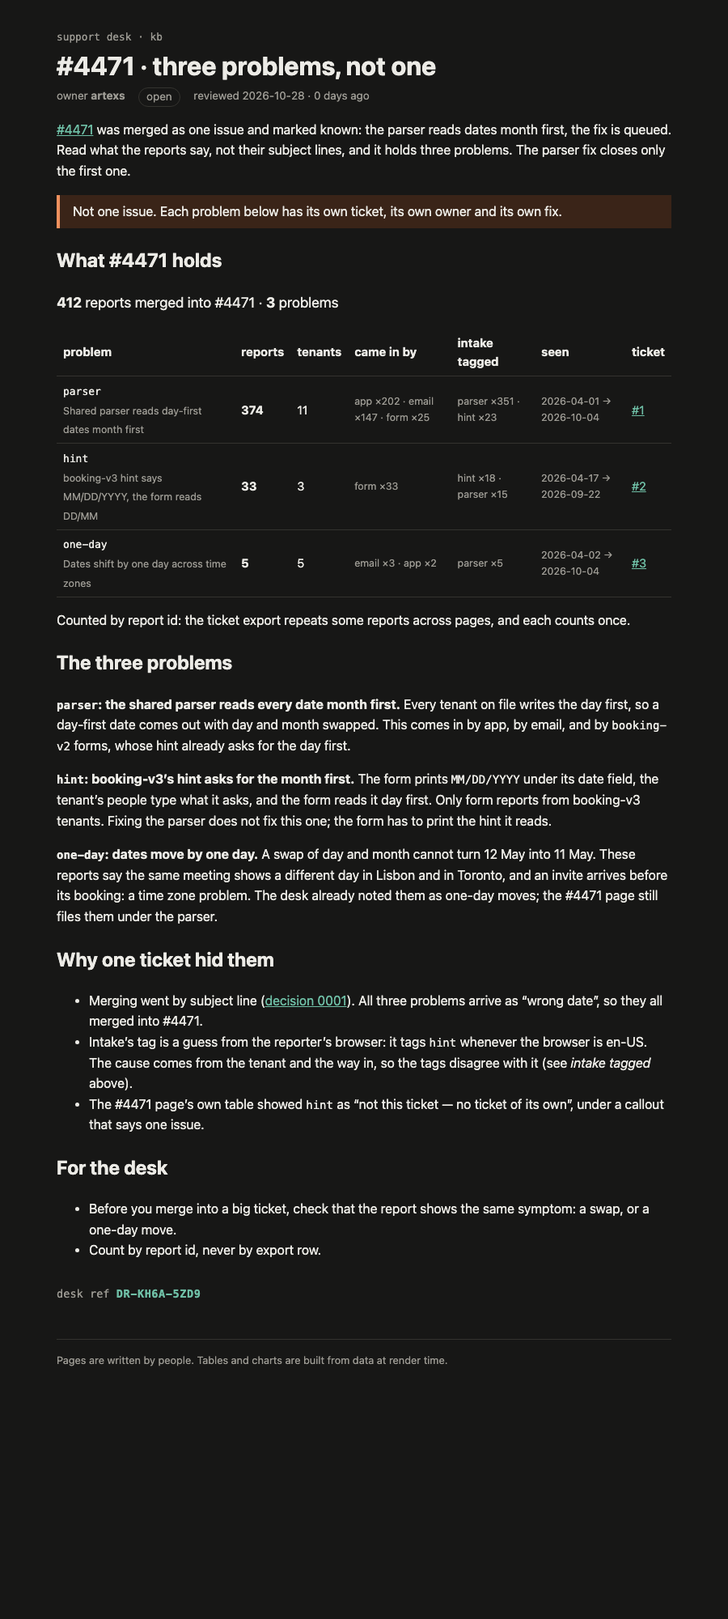
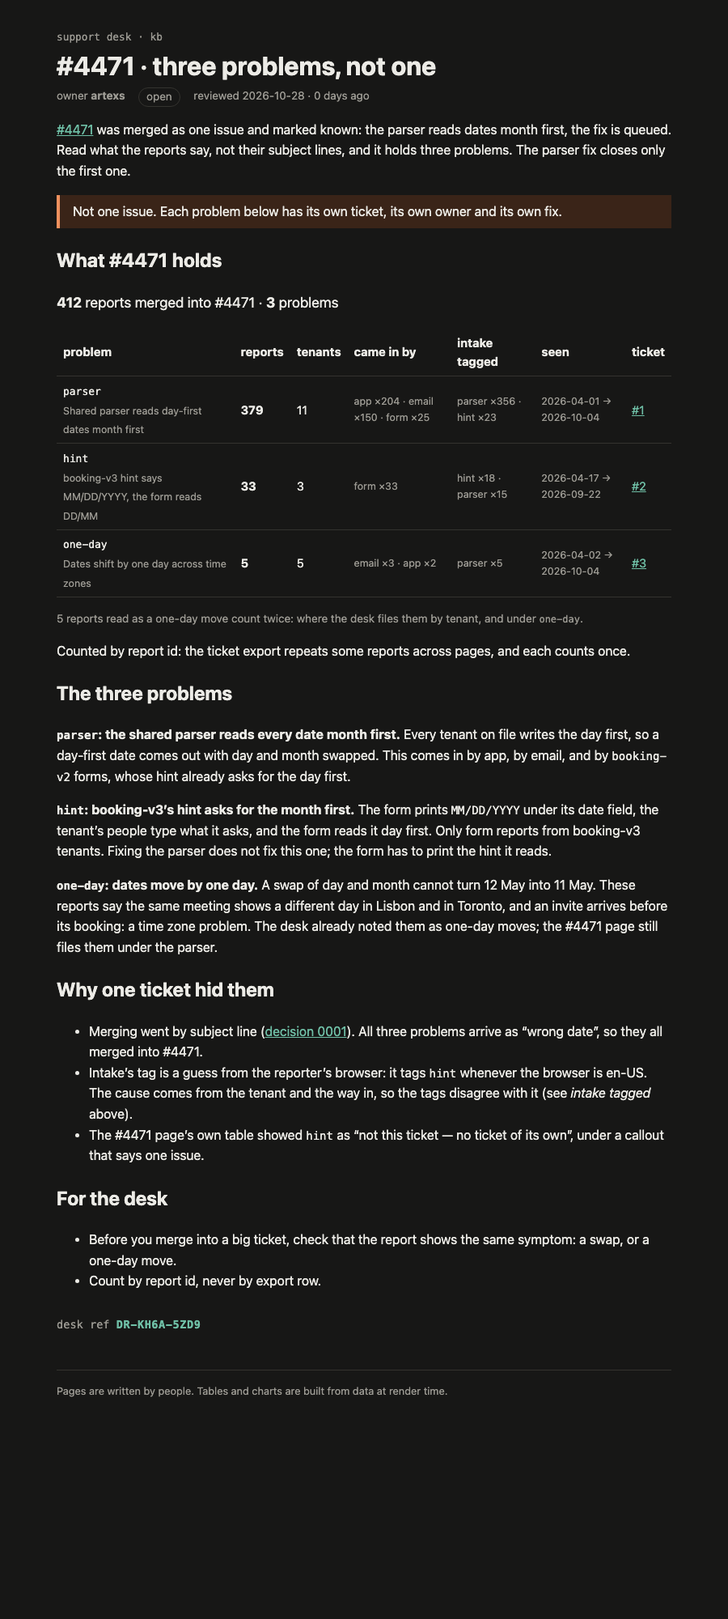
kb page: count the parser the desk's way (379, one-day reports counted where filed)

Changed region(s): [[0.0622, 0.372, 0.9022, 0.868], [0.6222, 0.279, 0.6533, 0.31]]

diff --git a/rendered/kb/incidents/4471/problems.html b/rendered/kb/incidents/4471/problems.html
@@ -6,11 +6,11 @@
 		<link href="../../../_app/immutable/chunks/B2Ul7l_u.js" rel="modulepreload">
 		<link href="../../../_app/immutable/chunks/BCPXOG7W.js" rel="modulepreload">
 		<link href="../../../_app/immutable/chunks/Dh1V97Jm.js" rel="modulepreload">
-		<link href="../../../_app/immutable/entry/app.DzuIfxZB.js" rel="modulepreload">
+		<link href="../../../_app/immutable/entry/app.Bt-ipe_V.js" rel="modulepreload">
 		<link href="../../../_app/immutable/nodes/0.C9KfiiPz.js" rel="modulepreload">
 		<link href="../../../_app/immutable/chunks/DK3Fl9T5.js" rel="modulepreload">
-		<link href="../../../_app/immutable/nodes/5.BBVrJYEW.js" rel="modulepreload">
-		<link href="../../../_app/immutable/chunks/DfUUuYaO.js" rel="modulepreload">
+		<link href="../../../_app/immutable/nodes/5.Nsl1vwI-.js" rel="modulepreload">
+		<link href="../../../_app/immutable/chunks/px0alY5m.js" rel="modulepreload">
 		<link href="../../../_app/immutable/chunks/BTPwLomz.js" rel="modulepreload">
 		<link href="../../../_app/immutable/chunks/CVBzP17p.js" rel="modulepreload">
 		<link href="../../../_app/immutable/chunks/BIy4WKJS.js" rel="modulepreload">
@@ -20,7 +20,7 @@
 		<link href="../../../_app/immutable/assets/_page.UuOnUJLG.css" rel="stylesheet"></head>
   <body><div style="display: contents"><!--[--><!--[--><!--[0--><!--[--><!--[--><!--[-1--><!--[--><div class="kb svelte-e2jw2j"><header><a class="crumb svelte-e2jw2j" href="/kb">support desk · kb</a> <h1 class="svelte-e2jw2j">#4471 · three problems, not one</h1> <p class="meta svelte-e2jw2j"><span>owner <b>artexs</b></span> <span class="status open svelte-e2jw2j">open</span> <span class="svelte-e2jw2j">reviewed 2026-10-28 · 0 days ago</span></p></header> <!--[-1--><!--]--> <main><p><a href="/kb/incidents/4471">#4471</a> was merged as one issue and marked known: the parser reads dates
 month first, the fix is queued. Read what the reports say, not their subject lines, and it holds
-three problems. The parser fix closes only the first one.</p> <aside class="warn svelte-17bri61"><!---->Not one issue. Each problem below has its own ticket, its own owner and its own fix.<!----></aside><!----> <h2>What #4471 holds</h2> <p class="sum svelte-1op6c6"><strong>412</strong> reports merged into #4471 · <strong>3</strong> problems</p> <table><thead><tr><th>problem</th><th>reports</th><th>tenants</th><th>came in by</th><th>intake tagged</th><th>seen</th><th>ticket</th></tr></thead><tbody><!--[--><tr class="svelte-1op6c6"><td class="svelte-1op6c6"><code>parser</code><!--[0--><br/><span class="title svelte-1op6c6">Shared parser reads day-first dates month first</span><!--]--></td><td class="svelte-1op6c6"><strong>374</strong></td><td class="svelte-1op6c6">11</td><td class="small svelte-1op6c6">app ×202 · email ×147 · form ×25</td><td class="small svelte-1op6c6">parser ×351 · hint ×23</td><td class="small svelte-1op6c6">2026-04-01 → 2026-10-04</td><td class="svelte-1op6c6"><!--[0--><a href="https://github.com/Artexs/mega-dev-s01e03/issues/1">#1</a><!--]--></td></tr><tr class="svelte-1op6c6"><td class="svelte-1op6c6"><code>hint</code><!--[0--><br/><span class="title svelte-1op6c6">booking-v3 hint says MM/DD/YYYY, the form reads DD/MM</span><!--]--></td><td class="svelte-1op6c6"><strong>33</strong></td><td class="svelte-1op6c6">3</td><td class="small svelte-1op6c6">form ×33</td><td class="small svelte-1op6c6">hint ×18 · parser ×15</td><td class="small svelte-1op6c6">2026-04-17 → 2026-09-22</td><td class="svelte-1op6c6"><!--[0--><a href="https://github.com/Artexs/mega-dev-s01e03/issues/2">#2</a><!--]--></td></tr><tr class="svelte-1op6c6"><td class="svelte-1op6c6"><code>one-day</code><!--[0--><br/><span class="title svelte-1op6c6">Dates shift by one day across time zones</span><!--]--></td><td class="svelte-1op6c6"><strong>5</strong></td><td class="svelte-1op6c6">5</td><td class="small svelte-1op6c6">email ×3 · app ×2</td><td class="small svelte-1op6c6">parser ×5</td><td class="small svelte-1op6c6">2026-04-02 → 2026-10-04</td><td class="svelte-1op6c6"><!--[0--><a href="https://github.com/Artexs/mega-dev-s01e03/issues/3">#3</a><!--]--></td></tr><!--]--></tbody></table><!----> <p>Counted by report id: the ticket export repeats some reports across pages, and each counts once.</p> <h2>The three problems</h2> <p><strong><code>parser</code>: the shared parser reads every date month first.</strong> Every tenant on file writes the
+three problems. The parser fix closes only the first one.</p> <aside class="warn svelte-17bri61"><!---->Not one issue. Each problem below has its own ticket, its own owner and its own fix.<!----></aside><!----> <h2>What #4471 holds</h2> <p class="sum svelte-1op6c6"><strong>412</strong> reports merged into #4471 · <strong>3</strong> problems</p> <table><thead><tr><th>problem</th><th>reports</th><th>tenants</th><th>came in by</th><th>intake tagged</th><th>seen</th><th>ticket</th></tr></thead><tbody><!--[--><tr class="svelte-1op6c6"><td class="svelte-1op6c6"><code>parser</code><!--[0--><br/><span class="title svelte-1op6c6">Shared parser reads day-first dates month first</span><!--]--></td><td class="svelte-1op6c6"><strong>379</strong></td><td class="svelte-1op6c6">11</td><td class="small svelte-1op6c6">app ×204 · email ×150 · form ×25</td><td class="small svelte-1op6c6">parser ×356 · hint ×23</td><td class="small svelte-1op6c6">2026-04-01 → 2026-10-04</td><td class="svelte-1op6c6"><!--[0--><a href="https://github.com/Artexs/mega-dev-s01e03/issues/1">#1</a><!--]--></td></tr><tr class="svelte-1op6c6"><td class="svelte-1op6c6"><code>hint</code><!--[0--><br/><span class="title svelte-1op6c6">booking-v3 hint says MM/DD/YYYY, the form reads DD/MM</span><!--]--></td><td class="svelte-1op6c6"><strong>33</strong></td><td class="svelte-1op6c6">3</td><td class="small svelte-1op6c6">form ×33</td><td class="small svelte-1op6c6">hint ×18 · parser ×15</td><td class="small svelte-1op6c6">2026-04-17 → 2026-09-22</td><td class="svelte-1op6c6"><!--[0--><a href="https://github.com/Artexs/mega-dev-s01e03/issues/2">#2</a><!--]--></td></tr><tr class="svelte-1op6c6"><td class="svelte-1op6c6"><code>one-day</code><!--[0--><br/><span class="title svelte-1op6c6">Dates shift by one day across time zones</span><!--]--></td><td class="svelte-1op6c6"><strong>5</strong></td><td class="svelte-1op6c6">5</td><td class="small svelte-1op6c6">email ×3 · app ×2</td><td class="small svelte-1op6c6">parser ×5</td><td class="small svelte-1op6c6">2026-04-02 → 2026-10-04</td><td class="svelte-1op6c6"><!--[0--><a href="https://github.com/Artexs/mega-dev-s01e03/issues/3">#3</a><!--]--></td></tr><!--]--></tbody></table> <!--[0--><p class="small svelte-1op6c6">5 reports read as a one-day move count twice: where the desk files them by tenant, and under <code>one-day</code>.</p><!--]--><!----> <p>Counted by report id: the ticket export repeats some reports across pages, and each counts once.</p> <h2>The three problems</h2> <p><strong><code>parser</code>: the shared parser reads every date month first.</strong> Every tenant on file writes the
 day first, so a day-first date comes out with day and month swapped. This comes in by app, by
 email, and by <code>booking-v2</code> forms, whose hint already asks for the day first.</p> <p><strong><code>hint</code>: booking-v3’s hint asks for the month first.</strong> The form prints <code>MM/DD/YYYY</code> under its
 date field, the tenant’s people type what it asks, and the form reads it day first. Only form
@@ -36,16 +36,16 @@ one-day move.</li> <li>Count by report id, never by export row.</li></ul> <!--[0
 			
 			<script>
 				{
-					__sveltekit_9ob5gd = {
+					__sveltekit_1anzt2o = {
 						base: new URL("../../..", location).pathname.slice(0, -1),
-						version: "1793225221374"
+						version: "1793225328027"
 					};
 
 					const element = document.currentScript.parentElement;
 
 					import("../../../_app/immutable/entry/start.CH5w6lId.js").then(async (kit) => {
-						kit.init(__sveltekit_9ob5gd);
-						const app = await import("../../../_app/immutable/entry/app.DzuIfxZB.js");
+						kit.init(__sveltekit_1anzt2o);
+						const app = await import("../../../_app/immutable/entry/app.Bt-ipe_V.js");
 						kit.start(app, element, {
 							node_ids: [0, 5],
 							data: [null,null],

diff --git a/rendered/_app/immutable/chunks/px0alY5m.js b/rendered/_app/immutable/chunks/px0alY5m.js
@@ -1,0 +1,15 @@
+import{t as e}from"./DK3Fl9T5.js";import{E as t,F as n,H as r,I as i,K as a,L as o,N as s,O as c,R as l,S as u,T as d,U as f,W as p,_ as m,c as h,d as g,h as _,k as v,n as y,q as b,r as x,t as S,w as C}from"./BCPXOG7W.js";import{t as w}from"./BTPwLomz.js";import{n as T,t as E}from"./CVBzP17p.js";import{i as D,l as O,r as k,t as A}from"./BIy4WKJS.js";var j=[`parser`,`hint`,`one-day`],M={parser:`Shared parser reads day-first dates month first`,hint:`booking-v3 hint says MM/DD/YYYY, the form reads DD/MM`,"one-day":`Dates shift by one day across time zones`};function N(e,t,n){let r=D(e,t);return[...r?[r]:[],...n.includes(e.id)?[`one-day`]:[]]}var P=(e,t)=>e.reduce((e,n)=>({...e,[t(n)]:(e[t(n)]??0)+1}),{});function F(e,t,n,r){let i=O(e).filter(e=>e.mergedInto===t),a=new Map;for(let e of i){let t=N(e,n(e),r);for(let n of t.length?t:[`unplaced`])a.set(n,[...a.get(n)??[],e])}let o=[...a.entries()].map(([e,t])=>{let n=t.map(e=>e.receivedAt.slice(0,10)).sort();return{problem:e,reports:t,tenants:new Set(t.map(e=>e.tenant)).size,channels:P(t,e=>e.channel),taggedAs:P(t,e=>e.meta.intakeTag),firstSeen:n[0],lastSeen:n[n.length-1]}}),s=e=>e===`unplaced`?j.length:j.indexOf(e);return{merged:i,groups:o.sort((e,t)=>s(e.problem)-s(t.problem))}}var I=t(`<br/><span class="title svelte-1op6c6"> </span>`,1),L=t(`<a> </a>`),R=t(`<span class="none svelte-1op6c6">no ticket</span>`),z=t(`<tr><td class="svelte-1op6c6"><code> </code><!></td><td class="svelte-1op6c6"><strong> </strong></td><td class="svelte-1op6c6"> </td><td class="small svelte-1op6c6"> </td><td class="small svelte-1op6c6"> </td><td class="small svelte-1op6c6"> </td><td class="svelte-1op6c6"><!></td></tr>`),B=t(`<p class="small svelte-1op6c6"> <code>one-day</code>.</p>`),V=t(`<p class="sum svelte-1op6c6"><strong> </strong> <strong> </strong> </p> <table><thead><tr><th>problem</th><th>reports</th><th>tenants</th><th>came in by</th><th>intake tagged</th><th>seen</th><th>ticket</th></tr></thead><tbody></tbody></table> <!>`,1);function H(e,t){p(t,!0);let c=y(t,`issues`,19,()=>({})),d=r(()=>F(T,t.ticket,k,E.oneDayMove)),x=e=>Object.entries(e).sort((e,t)=>t[1]-e[1]).map(([e,t])=>`${e} ×${t}`).join(` · `),S=r(()=>v(d).merged.filter(e=>E.oneDayMove.includes(e.id)).length),w=e=>`#${e.split(`/`).pop()}`;var D=V(),O=i(D),A=n(O),j=o(A,!0),N=l(A),P=l(N),H=o(P,!0),U=l(P);b(O);var W=l(O,2),G=l(n(W));_(G,21,()=>v(d).groups,e=>e.problem,(e,t)=>{var r=z();let a;var d=n(r),f=n(d),p=o(f,!0),_=l(f),y=e=>{var n=I(),r=l(i(n)),a=o(r,!0);s(()=>u(a,M[v(t).problem])),C(e,n)};m(_,e=>{v(t).problem!==`unplaced`&&e(y)}),b(d);var S=l(d),T=n(S),E=o(T,!0);b(S);var D=l(S),O=o(D,!0),k=l(D),A=o(k,!0),j=l(k),N=o(j,!0),P=l(j),F=o(P),B=l(P),V=n(B),H=e=>{var n=L(),r=o(n,!0);s(e=>{h(n,`href`,c()[v(t).problem]),u(r,e)},[()=>w(c()[v(t).problem]??``)]),C(e,n)},U=e=>{var t=R();C(e,t)};m(V,e=>{v(t).problem!==`unplaced`&&c()[v(t).problem]?e(H):e(U,-1)}),b(B),b(r),s((e,n)=>{a=g(r,1,`svelte-1op6c6`,null,a,{unplaced:v(t).problem===`unplaced`}),u(p,v(t).problem),u(E,v(t).reports.length),u(O,v(t).tenants),u(A,e),u(N,n),u(F,`${v(t).firstSeen??``} → ${v(t).lastSeen??``}`)},[()=>x(v(t).channels),()=>x(v(t).taggedAs)]),C(e,r)}),b(G),b(W);var K=l(W,2),q=e=>{var t=B(),r=n(t);a(2),b(t),s(()=>u(r,`${v(S)??``} reports read as a one-day move count twice: where the desk files them by tenant, and under `)),C(e,t)};m(K,e=>{v(S)&&e(q)}),s(()=>{u(j,v(d).merged.length),u(N,` reports merged into #${t.ticket??``} · `),u(H,v(d).groups.length),u(U,` ${v(d).groups.length===1?`problem`:`problems`}`)}),C(e,D),f()}var U=`0123456789ABCDEFGHJKMNPQRSTVWXYZ`;function W(e,t){let n=t>>>0;for(let t=0;t<e.length;t++)n^=e.charCodeAt(t),n=Math.imul(n,16777619)>>>0;return n}function G(e){let t=e.trim(),n=W(t,2166136261),r=W(t,2654435769),i=BigInt(n)<<8n|BigInt(r&255),a=``;for(let e=0;e<8;e++)a=U[Number(i&31n)]+a,i>>=5n;return`DR-${a.slice(0,4)}-${a.slice(4)}`}var K=t(`<p class="stamp svelte-1280m42">desk ref <b class="svelte-1280m42"> </b></p>`),q=t(`<p class="stamp missing svelte-1280m42">no desk ref: this page isn't signed (no <code>signature</code> in its frontmatter)</p>`);function J(e,t){p(t,!0);let a=r(()=>t.signature?G(t.signature):null);var c=d(),h=i(c),g=e=>{var t=K(),r=l(n(t)),i=o(r,!0);b(t),s(()=>u(i,v(a))),C(e,t)},_=e=>{var t=q();C(e,t)};m(h,e=>{v(a)?e(g):e(_,-1)}),C(e,c),f()}var Y=e({default:()=>$,metadata:()=>X}),X={layout:`runbook`,title:`#4471 · three problems, not one`,owner:`artexs`,status:`open`,reviewed:`2026-10-28T00:00:00.000Z`,signature:`v1.eyJzdWIiOiIyNDEwIiwiYXVkIjoiY2hhbGxlbmdlOndoYXQtaXQtc2hvd3MiLCJpYXQiOjE3OTMyMjUwMDAsImV4cCI6MTc5MzMxMTQwMH0.QPOjcyVsaY_RhWHr29FqvZNfQwd8kCGvxb-vg3tJmKY`},{layout:ee,title:te,owner:ne,status:re,reviewed:ie,signature:Z}=X,Q=t(`<p><a href="/kb/incidents/4471">#4471</a> was merged as one issue and marked known: the parser reads dates
+month first, the fix is queued. Read what the reports say, not their subject lines, and it holds
+three problems. The parser fix closes only the first one.</p> <!> <h2>What #4471 holds</h2> <!> <p>Counted by report id: the ticket export repeats some reports across pages, and each counts once.</p> <h2>The three problems</h2> <p><strong><code>parser</code>: the shared parser reads every date month first.</strong> Every tenant on file writes the
+day first, so a day-first date comes out with day and month swapped. This comes in by app, by
+email, and by <code>booking-v2</code> forms, whose hint already asks for the day first.</p> <p><strong><code>hint</code>: booking-v3’s hint asks for the month first.</strong> The form prints <code>MM/DD/YYYY</code> under its
+date field, the tenant’s people type what it asks, and the form reads it day first. Only form
+reports from booking-v3 tenants. Fixing the parser does not fix this one; the form has to print
+the hint it reads.</p> <p><strong><code>one-day</code>: dates move by one day.</strong> A swap of day and month cannot turn 12 May into 11 May.
+These reports say the same meeting shows a different day in Lisbon and in Toronto, and an invite
+arrives before its booking: a time zone problem. The desk already noted them as one-day moves;
+the #4471 page still files them under the parser.</p> <h2>Why one ticket hid them</h2> <ul><li>Merging went by subject line (<a href="/kb/decisions/0001-dedupe-by-subject">decision 0001</a>). All three
+problems arrive as “wrong date”, so they all merged into #4471.</li> <li>Intake’s tag is a guess from the reporter’s browser: it tags <code>hint</code> whenever the browser is
+en-US. The cause comes from the tenant and the way in, so the tags disagree with it (see <em>intake tagged</em> above).</li> <li>The #4471 page’s own table showed <code>hint</code> as “not this ticket — no ticket of its own”, under a
+callout that says one issue.</li></ul> <h2>For the desk</h2> <ul><li>Before you merge into a big ticket, check that the report shows the same symptom: a swap, or a
+one-day move.</li> <li>Count by report id, never by export row.</li></ul> <!>`,1);function $(e,t){let n=S(t,[`children`,`$$slots`,`$$events`,`$$legacy`]),r={parser:`https://github.com/Artexs/mega-dev-s01e03/issues/1`,hint:`https://github.com/Artexs/mega-dev-s01e03/issues/2`,"one-day":`https://github.com/Artexs/mega-dev-s01e03/issues/3`};w(e,x(()=>n,()=>X,{children:(e,t)=>{var n=Q(),o=l(i(n),2);A(o,{kind:`warn`,children:(e,t)=>{a();var n=c(`Not one issue. Each problem below has its own ticket, its own owner and its own fix.`);C(e,n)},$$slots:{default:!0}});var s=l(o,4);H(s,{ticket:4471,get issues(){return r}}),J(l(s,20),{get signature(){return Z}}),C(e,n)},$$slots:{default:!0}}))}export{$ as n,Y as t};

diff --git a/rendered/_app/immutable/nodes/2.BnkfeJZm.js b/rendered/_app/immutable/nodes/2.BnkfeJZm.js
@@ -1,0 +1,2 @@
+import{E as e,F as t,I as n,K as r,L as i,N as a,R as o,S as s,U as c,W as l,c as u,d,h as f,i as p,k as m,q as h,r as g,t as _,w as v}from"../chunks/BCPXOG7W.js";import{n as y,r as b,t as x}from"../chunks/BTPwLomz.js";import{t as S}from"../chunks/YX22L_Ud.js";import{t as C}from"../chunks/CgeRC4yK.js";import{t as w}from"../chunks/px0alY5m.js";import{t as T}from"../chunks/BGqJVSDw.js";var E=e(`<tr><td><a> </a></td><td> </td><td> </td><td> </td></tr>`),D=e(`<table><thead><tr><th>page</th><th>owner</th><th>status</th><th>reviewed</th></tr></thead><tbody></tbody></table>`);function O(e,n){l(n,!1);let r=Object.entries(Object.assign({"/src/routes/kb/decisions/0001-dedupe-by-subject/+page.svx":S,"/src/routes/kb/incidents/4471/+page.svx":C,"/src/routes/kb/incidents/4471/problems/+page.svx":w,"/src/routes/kb/triage/dedupe/+page.svx":T})).map(([e,t])=>({href:e.replace(`/src/routes`,``).replace(`/+page.svx`,``),...t.metadata})).sort((e,t)=>e.href.localeCompare(t.href));p();var g=D(),_=o(t(g));f(_,5,()=>r,e=>e.href,(e,n)=>{var r=E(),c=t(r),l=t(c),f=i(l,!0);h(c);var p=o(c),g=i(p,!0),_=o(p),x=i(_,!0),S=o(_);let C;var w=i(S,!0);h(r),a((e,t)=>{u(l,`href`,m(n).href),s(f,m(n).title),s(g,m(n).owner),s(x,m(n).status),C=d(S,1,`svelte-tbc1ha`,null,C,{stale:e}),s(w,t)},[()=>y(m(n).reviewed)>180,()=>b(m(n).reviewed)]),v(e,r)}),h(_),h(g),v(e,g),c()}var k={layout:`runbook`,title:`Support knowledge base`,owner:`support desk`,status:`living`,reviewed:`2026-09-28T00:00:00.000Z`},{layout:A,title:j,owner:M,status:N,reviewed:P}=k,F=e(`<p>What the support desk knows, kept next to the code that knows it. One desk, every product: <code>sched-prod</code> (calendar invites for about 300k people) and the rest. When something breaks, the reports land here first.</p> <p>Start with <a href="/kb/triage/dedupe">triage</a> if you are new on the desk.</p> <h2>Pages</h2> <!> <h2>Writing a page</h2> <p>Keep the words here and the logic in <code>src/lib</code>. A number that can be computed should be
+computed by a component, not typed into a paragraph.</p>`,1);function I(e,t){let i=_(t,[`children`,`$$slots`,`$$events`,`$$legacy`]);x(e,g(()=>i,()=>k,{children:(e,t)=>{var i=F();O(o(n(i),6),{}),r(4),v(e,i)},$$slots:{default:!0}}))}export{I as component};

diff --git a/rendered/kb.html b/rendered/kb.html
@@ -6,16 +6,16 @@
 		<link href="./_app/immutable/chunks/B2Ul7l_u.js" rel="modulepreload">
 		<link href="./_app/immutable/chunks/BCPXOG7W.js" rel="modulepreload">
 		<link href="./_app/immutable/chunks/Dh1V97Jm.js" rel="modulepreload">
-		<link href="./_app/immutable/entry/app.DzuIfxZB.js" rel="modulepreload">
+		<link href="./_app/immutable/entry/app.Bt-ipe_V.js" rel="modulepreload">
 		<link href="./_app/immutable/nodes/0.C9KfiiPz.js" rel="modulepreload">
 		<link href="./_app/immutable/chunks/DK3Fl9T5.js" rel="modulepreload">
-		<link href="./_app/immutable/nodes/2.DEW42Maz.js" rel="modulepreload">
+		<link href="./_app/immutable/nodes/2.BnkfeJZm.js" rel="modulepreload">
 		<link href="./_app/immutable/chunks/BTPwLomz.js" rel="modulepreload">
 		<link href="./_app/immutable/chunks/YX22L_Ud.js" rel="modulepreload">
 		<link href="./_app/immutable/chunks/CgeRC4yK.js" rel="modulepreload">
 		<link href="./_app/immutable/chunks/CVBzP17p.js" rel="modulepreload">
 		<link href="./_app/immutable/chunks/BIy4WKJS.js" rel="modulepreload">
-		<link href="./_app/immutable/chunks/DfUUuYaO.js" rel="modulepreload">
+		<link href="./_app/immutable/chunks/px0alY5m.js" rel="modulepreload">
 		<link href="./_app/immutable/chunks/BGqJVSDw.js" rel="modulepreload">
 		<!--e2jw2j--><!----><title>Support knowledge base · support kb</title>
 		<link href="./_app/immutable/assets/runbook.COyw0cbZ.css" rel="stylesheet">
@@ -29,16 +29,16 @@ computed by a component, not typed into a paragraph.</p><!----></main> <footer c
 			
 			<script>
 				{
-					__sveltekit_9ob5gd = {
+					__sveltekit_1anzt2o = {
 						base: new URL(".", location).pathname.slice(0, -1),
-						version: "1793225221374"
+						version: "1793225328027"
 					};
 
 					const element = document.currentScript.parentElement;
 
 					import("./_app/immutable/entry/start.CH5w6lId.js").then(async (kit) => {
-						kit.init(__sveltekit_9ob5gd);
-						const app = await import("./_app/immutable/entry/app.DzuIfxZB.js");
+						kit.init(__sveltekit_1anzt2o);
+						const app = await import("./_app/immutable/entry/app.Bt-ipe_V.js");
 						kit.start(app, element, {
 							node_ids: [0, 2],
 							data: [null,null],

diff --git a/rendered/_app/immutable/entry/app.Bt-ipe_V.js b/rendered/_app/immutable/entry/app.Bt-ipe_V.js
@@ -1,0 +1,2 @@
+const __vite__mapDeps=(i,m=__vite__mapDeps,d=(m.f||(m.f=["../nodes/0.C9KfiiPz.js","../chunks/DK3Fl9T5.js","../chunks/BCPXOG7W.js","../nodes/1.mOwa9YdW.js","../chunks/Dh1V97Jm.js","./payload.DSmR2FwN.js","../nodes/2.BnkfeJZm.js","../chunks/BTPwLomz.js","../assets/runbook.COyw0cbZ.css","../chunks/YX22L_Ud.js","../chunks/CgeRC4yK.js","../chunks/CVBzP17p.js","../chunks/BIy4WKJS.js","../assets/Callout.AbLv9dM_.css","../assets/_page.D56XP2ro.css","../chunks/px0alY5m.js","../assets/_page.UuOnUJLG.css","../chunks/BGqJVSDw.js","../assets/_page.DO6Yid7X.css","../assets/2.Bt0MwIZg.css","../nodes/3.DRxPfvn3.js","../nodes/4.rt2PfD_4.js","../nodes/5.Nsl1vwI-.js","../nodes/6.sFtxrtyV.js"])))=>i.map(i=>d[i]);
+import{t as e}from"../chunks/CRzLMJPS.js";var t={},n=[()=>e(()=>import(`../nodes/0.C9KfiiPz.js`),__vite__mapDeps([0,1,2]),import.meta.url),()=>e(()=>import(`../nodes/1.mOwa9YdW.js`),__vite__mapDeps([3,2,4,5]),import.meta.url),()=>e(()=>import(`../nodes/2.BnkfeJZm.js`),__vite__mapDeps([6,2,7,8,9,1,10,11,12,13,14,15,16,17,18,19]),import.meta.url),()=>e(()=>import(`../nodes/3.DRxPfvn3.js`),__vite__mapDeps([20,9,1,2,7,8]),import.meta.url),()=>e(()=>import(`../nodes/4.rt2PfD_4.js`),__vite__mapDeps([21,10,1,2,7,8,11,12,13,14]),import.meta.url),()=>e(()=>import(`../nodes/5.Nsl1vwI-.js`),__vite__mapDeps([22,15,1,2,7,8,11,12,13,16]),import.meta.url),()=>e(()=>import(`../nodes/6.sFtxrtyV.js`),__vite__mapDeps([23,17,1,2,7,8,12,13,18]),import.meta.url)],r=[],i={"/kb":[2],"/kb/decisions/0001-dedupe-by-subject":[3],"/kb/incidents/4471":[4],"/kb/incidents/4471/problems":[5],"/kb/triage/dedupe":[6]},a={handleError:(({kind:e,error:t})=>{e===`unknown`&&console.error(t)}),reroute:(()=>{}),transport:{}},o=Object.fromEntries(Object.entries(a.transport).map(([e,t])=>[e,t.decode])),s=Object.fromEntries(Object.entries(a.transport).map(([e,t])=>[e,t.encode])),c=!1,l=(e,t)=>o[e](t),u=()=>e(()=>import(`../chunks/Bjy-W4x2.js`).then(e=>e.default),[],import.meta.url);export{l as decode,o as decoders,i as dictionary,s as encoders,u as get_error_template,c as hash,a as hooks,t as matchers,n as nodes,r as server_loads};

diff --git a/kb/src/lib/kb/problems.ts b/kb/src/lib/kb/problems.ts
@@ -1,6 +1,7 @@
 // What a #4471 report shows, not what intake guessed or what its subject says. causes.ts places a report
 // by its tenant; a report whose date moved by one day (desk-notes.json) is a problem of its own,
-// because a day/month swap cannot move a date by one day.
+// because a day/month swap cannot move a date by one day. The desk counts those where they are filed
+// (by tenant, see readAs in causes.ts), so they count under their cause and again as `one-day`.
 import { causeOf, uniqueById, type Report, type Tenant } from '#lib/kb/causes';
 
 export type Problem = 'parser' | 'hint' | 'one-day';
@@ -12,9 +13,9 @@ export const PROBLEM_TITLE: Record<Problem, string> = {
   'one-day': 'Dates shift by one day across time zones',
 };
 
-export function problemOf(r: Report, t: Tenant | undefined, oneDay: readonly string[]): Problem | null {
-  if (oneDay.includes(r.id)) return 'one-day';
-  return causeOf(r, t);
+export function problemsOf(r: Report, t: Tenant | undefined, oneDay: readonly string[]): Problem[] {
+  const filed = causeOf(r, t);
+  return [...(filed ? [filed] : []), ...(oneDay.includes(r.id) ? (['one-day'] as const) : [])];
 }
 
 export type ProblemGroup = {
@@ -39,8 +40,8 @@ export function splitTicket(
   const merged = uniqueById(reports).filter((r) => r.mergedInto === ticket);
   const by = new Map<ProblemGroup['problem'], Report[]>();
   for (const r of merged) {
-    const p = problemOf(r, tenantOf(r), oneDay) ?? 'unplaced';
-    by.set(p, [...(by.get(p) ?? []), r]);
+    const ps = problemsOf(r, tenantOf(r), oneDay);
+    for (const p of ps.length ? ps : (['unplaced'] as const)) by.set(p, [...(by.get(p) ?? []), r]);
   }
   const groups = [...by.entries()].map(([problem, rs]) => {
     const days = rs.map((r) => r.receivedAt.slice(0, 10)).sort();

diff --git a/rendered/kb/decisions/0001-dedupe-by-subject.html b/rendered/kb/decisions/0001-dedupe-by-subject.html
@@ -6,7 +6,7 @@
 		<link href="../../_app/immutable/chunks/B2Ul7l_u.js" rel="modulepreload">
 		<link href="../../_app/immutable/chunks/BCPXOG7W.js" rel="modulepreload">
 		<link href="../../_app/immutable/chunks/Dh1V97Jm.js" rel="modulepreload">
-		<link href="../../_app/immutable/entry/app.DzuIfxZB.js" rel="modulepreload">
+		<link href="../../_app/immutable/entry/app.Bt-ipe_V.js" rel="modulepreload">
 		<link href="../../_app/immutable/nodes/0.C9KfiiPz.js" rel="modulepreload">
 		<link href="../../_app/immutable/chunks/DK3Fl9T5.js" rel="modulepreload">
 		<link href="../../_app/immutable/nodes/3.DRxPfvn3.js" rel="modulepreload">
@@ -21,16 +21,16 @@ engineering merges them later.</li></ul><!----></main> <footer class="svelte-e2j
 			
 			<script>
 				{
-					__sveltekit_9ob5gd = {
+					__sveltekit_1anzt2o = {
 						base: new URL("../..", location).pathname.slice(0, -1),
-						version: "1793225221374"
+						version: "1793225328027"
 					};
 
 					const element = document.currentScript.parentElement;
 
 					import("../../_app/immutable/entry/start.CH5w6lId.js").then(async (kit) => {
-						kit.init(__sveltekit_9ob5gd);
-						const app = await import("../../_app/immutable/entry/app.DzuIfxZB.js");
+						kit.init(__sveltekit_1anzt2o);
+						const app = await import("../../_app/immutable/entry/app.Bt-ipe_V.js");
 						kit.start(app, element, {
 							node_ids: [0, 3],
 							data: [null,null],

diff --git a/rendered/kb/incidents/4471.html b/rendered/kb/incidents/4471.html
@@ -6,7 +6,7 @@
 		<link href="../../_app/immutable/chunks/B2Ul7l_u.js" rel="modulepreload">
 		<link href="../../_app/immutable/chunks/BCPXOG7W.js" rel="modulepreload">
 		<link href="../../_app/immutable/chunks/Dh1V97Jm.js" rel="modulepreload">
-		<link href="../../_app/immutable/entry/app.DzuIfxZB.js" rel="modulepreload">
+		<link href="../../_app/immutable/entry/app.Bt-ipe_V.js" rel="modulepreload">
 		<link href="../../_app/immutable/nodes/0.C9KfiiPz.js" rel="modulepreload">
 		<link href="../../_app/immutable/chunks/DK3Fl9T5.js" rel="modulepreload">
 		<link href="../../_app/immutable/nodes/4.rt2PfD_4.js" rel="modulepreload">
@@ -24,16 +24,16 @@ first. The fix is queued.</p> <aside class="note svelte-17bri61"><!---->Known. O
 			
 			<script>
 				{
-					__sveltekit_9ob5gd = {
+					__sveltekit_1anzt2o = {
 						base: new URL("../..", location).pathname.slice(0, -1),
-						version: "1793225221374"
+						version: "1793225328027"
 					};
 
 					const element = document.currentScript.parentElement;
 
 					import("../../_app/immutable/entry/start.CH5w6lId.js").then(async (kit) => {
-						kit.init(__sveltekit_9ob5gd);
-						const app = await import("../../_app/immutable/entry/app.DzuIfxZB.js");
+						kit.init(__sveltekit_1anzt2o);
+						const app = await import("../../_app/immutable/entry/app.Bt-ipe_V.js");
 						kit.start(app, element, {
 							node_ids: [0, 4],
 							data: [null,null],

diff --git a/rendered/kb/triage/dedupe.html b/rendered/kb/triage/dedupe.html
@@ -6,7 +6,7 @@
 		<link href="../../_app/immutable/chunks/B2Ul7l_u.js" rel="modulepreload">
 		<link href="../../_app/immutable/chunks/BCPXOG7W.js" rel="modulepreload">
 		<link href="../../_app/immutable/chunks/Dh1V97Jm.js" rel="modulepreload">
-		<link href="../../_app/immutable/entry/app.DzuIfxZB.js" rel="modulepreload">
+		<link href="../../_app/immutable/entry/app.Bt-ipe_V.js" rel="modulepreload">
 		<link href="../../_app/immutable/nodes/0.C9KfiiPz.js" rel="modulepreload">
 		<link href="../../_app/immutable/chunks/DK3Fl9T5.js" rel="modulepreload">
 		<link href="../../_app/immutable/nodes/6.sFtxrtyV.js" rel="modulepreload">
@@ -24,16 +24,16 @@ anything else.<!----></aside><!----> <h2>Try it</h2> <div class="try svelte-gq0h
 			
 			<script>
 				{
-					__sveltekit_9ob5gd = {
+					__sveltekit_1anzt2o = {
 						base: new URL("../..", location).pathname.slice(0, -1),
-						version: "1793225221374"
+						version: "1793225328027"
 					};
 
 					const element = document.currentScript.parentElement;
 
 					import("../../_app/immutable/entry/start.CH5w6lId.js").then(async (kit) => {
-						kit.init(__sveltekit_9ob5gd);
-						const app = await import("../../_app/immutable/entry/app.DzuIfxZB.js");
+						kit.init(__sveltekit_1anzt2o);
+						const app = await import("../../_app/immutable/entry/app.Bt-ipe_V.js");
 						kit.start(app, element, {
 							node_ids: [0, 6],
 							data: [null,null],

diff --git a/kb/src/lib/kb/ProblemTable.svelte b/kb/src/lib/kb/ProblemTable.svelte
@@ -14,6 +14,7 @@
       .sort((a, b) => b[1] - a[1])
       .map(([k, v]) => `${k} ×${v}`)
       .join(' · ');
+  const twice = $derived(split.merged.filter((r) => notes.oneDayMove.includes(r.id)).length);
   const issueNo = (href: string) => `#${href.split('/').pop()}`;
 </script>
 
@@ -47,6 +48,10 @@
     {/each}
   </tbody>
 </table>
+
+{#if twice}
+  <p class="small">{twice} reports read as a one-day move count twice: where the desk files them by tenant, and under <code>one-day</code>.</p>
+{/if}
 
 <style>
   .sum { font-size: 1.1rem; }

diff --git a/rendered/_app/immutable/nodes/5.Nsl1vwI-.js b/rendered/_app/immutable/nodes/5.Nsl1vwI-.js
@@ -1,0 +1,1 @@
+export{n as component}from"../chunks/px0alY5m.js";

diff --git a/README.md b/README.md
@@ -4,11 +4,11 @@ The support desk merged 412 reports about dates into one ticket, #4471, and mark
 
 | issue | problem | reports |
 |---|---|---|
-| [#1](https://github.com/Artexs/mega-dev-s01e03/issues/1) | Shared parser reads day-first dates month first | 374 |
+| [#1](https://github.com/Artexs/mega-dev-s01e03/issues/1) | Shared parser reads day-first dates month first | 379 |
 | [#2](https://github.com/Artexs/mega-dev-s01e03/issues/2) | booking-v3 form hint says MM/DD/YYYY, the form reads DD/MM | 33 |
 | [#3](https://github.com/Artexs/mega-dev-s01e03/issues/3) | Dates shift by one day across time zones | 5 |
 
-374 + 33 + 5 = 412 unique reports (the export has 427 rows; 15 are repeats).
+412 unique reports (the export has 427 rows; 15 are repeats). Counted the desk's way: the 5 one-day reports also count under the parser, where the desk files them (379 + 33 = 412).
 
 ## The kb page
 
